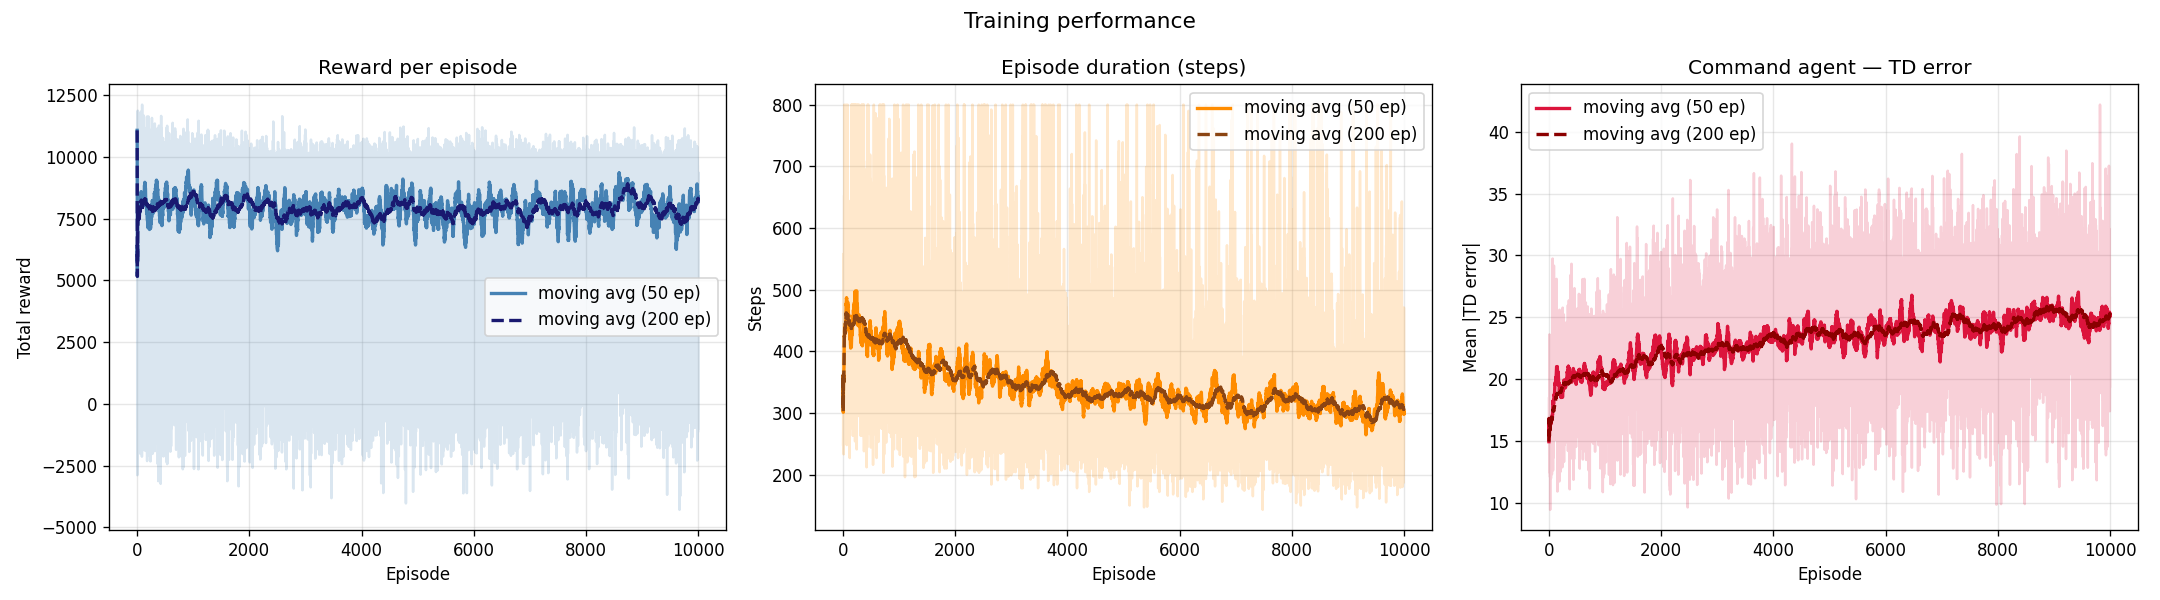
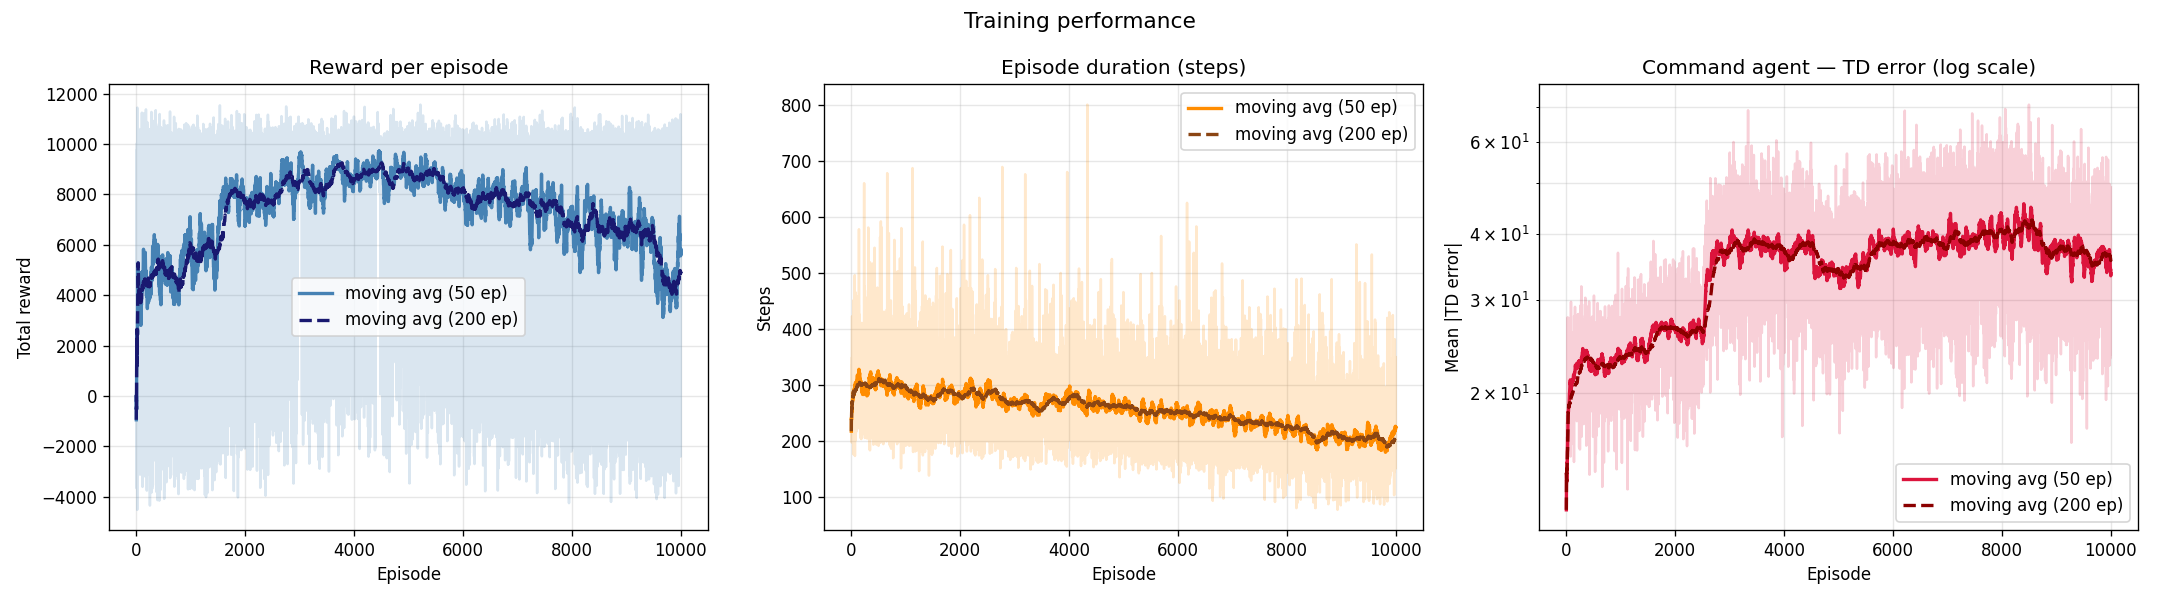
Readme update

diff --git a/training_and_eval.py b/training_and_eval.py
@@ -276,6 +276,6 @@ def train(episodes=5000, render_every=1000, resume=True, save_every=500):
 
 
 if __name__ == "__main__":
-    # resume=True  → continue from last checkpoint (default)
-    # resume=False → start from scratch, ignore existing qtables.npz
-    train(episodes=10000, render_every=500, resume=True, save_every=500)
+    # resume=True  | continue from last checkpoint (default)                |
+    # resume=False | start from scratch, ignore existing qtables.npz        |
+    train(episodes=10000, render_every=5000, resume=True, save_every=1000)

diff --git a/readme.md b/readme.md
@@ -1,8 +1,8 @@
-# IA-Normandy – Normandy Battle Simulation with RL
+# IA-Normandy – Normandy Battle Simulation with RL
 
 Artificial Intelligence course project. Multi-agent tactical simulation of the Battle of Normandy implemented using Gymnasium and tabular Q-Learning.
 
-Link: https://github.com/alejandror5803/IA-normandy-simulation-RL
+Link: [https://github.com/alejandror5803/IA-normandy-simulation-RL](https://github.com/alejandror5803/IA-normandy-simulation-RL)
 
 ---
 
@@ -30,6 +30,7 @@ Link: https://github.com/alejandror5803/IA-normandy-simulation-RL
 IA-Normandy is a tactical simulation of the Battle of Normandy (and later the Battle of Caen) in a 2D grid environment of 100×100 cells. The project models a historically accurate numerical imbalance: the blue team (Germans, Tigers) starts at a 1:3 disadvantage against the red team (Allies, Shermans), but compensates with greater armor and firepower per unit.
 
 The objectives of the blue team are:
+
 - Capture and hold points of interest A, B, and C (with B being the most strategically valuable).
 - Engage the enemy while taking advantage of terrain cover.
 
@@ -43,6 +44,7 @@ This is a multi-agent self-play setup with ~64 learning components (commanders +
 
 Because of that, we should not expect a perfect smooth single-agent convergence curve.  
 In this project, we use **practical convergence**:
+
 - moving averages stabilize in a range (not necessarily at one flat value),
 - episode length reaches a stable band,
 - learned policies become consistent in the policy plots.
@@ -56,6 +58,7 @@ So, oscillation by itself is not a bug in this architecture. The real check is w
 ## Multi-Agent Architecture
 
 The system is organized into two hierarchical levels:
+
 - **Commander Agent:** Coordinates the platoon's sub-agents. Selects which sub-agent takes control each step.
 - **Attack Agent:** Decides whether to attack the nearest enemy within its observation range. It is penalized if an enemy is present and it does not fire; it is rewarded for each successful hit.
 - **Capture Agent:** Moves the platoon toward the designated objective. It is rewarded for getting closer and penalized for moving away.
@@ -75,25 +78,29 @@ The Luftwaffe adds a German JU-87 Stuka that performs bombing runs on Allied pla
 
 The aircraft's lifecycle is modelled as a discrete Markov Chain with 6 states:
 
-| State | Code | Description |
-|-------|------|-------------|
-| AVAILABLE | AV | Waiting at base, ready for a mission |
-| INBOUND | IB | Flying toward the target |
-| STRIKING | ST | Executing the bomb run (1 step) |
-| RETURNING | RT | Flying back to base |
-| REARMING | RA | Reloading at base |
-| SHOT_DOWN | SD | Absorbing state — aircraft destroyed |
+
+| State     | Code | Description                          |
+| --------- | ---- | ------------------------------------ |
+| AVAILABLE | AV   | Waiting at base, ready for a mission |
+| INBOUND   | IB   | Flying toward the target             |
+| STRIKING  | ST   | Executing the bomb run (1 step)      |
+| RETURNING | RT   | Flying back to base                  |
+| REARMING  | RA   | Reloading at base                    |
+| SHOT_DOWN | SD   | Absorbing state — aircraft destroyed |
+
 
 The transition matrix `T` captures the probabilities between states. The stochastic element is `P_FLAK = 0.04`: a 4% chance per step of being intercepted by anti-aircraft fire while in the `INBOUND` state.
 
 Theoretical statistics computed at initialisation from the chain:
 
-| Metric | Value |
-|--------|-------|
-| Cycle length | 20 steps |
-| P(survive one mission) | 81.5% |
-| Availability | ~5% |
-| Expected missions before shootdown | ~5.4 |
+
+| Metric                             | Value    |
+| ---------------------------------- | -------- |
+| Cycle length                       | 20 steps |
+| P(survive one mission)             | 81.5%    |
+| Availability                       | ~5%      |
+| Expected missions before shootdown | ~5.4     |
+
 
 #### 2. Particle Swarm Optimization (Topic 4) — Target selection
 
@@ -112,6 +119,7 @@ The blast has a Manhattan radius of 5 cells with a linear falloff. Terrain cover
 #### Rendering
 
 The aircraft is rendered as an animated JU-87 sprite (`resources/ju87.png`) that:
+
 - Interpolates its position between base and target based on the current Markov Chain state and steps elapsed.
 - Rotates to face the flight direction.
 - Draws a semi-transparent path line to its target.
@@ -133,13 +141,16 @@ If `smolagents` is not installed or the API call fails, both fall back silently 
 
 **Tools provided to the LLM:**
 
-| Tool | Arguments | Purpose |
-|------|-----------|---------|
-| `get_battle_performance` | avg_reward, win_rate, avg_captures, blue_alive_avg | Recent performance report |
-| `get_commander_stats` | blue_epsilons_csv, blue_q_means_csv, red_epsilon | Per-commander Q-table and epsilon status |
-| `get_luftwaffe_report` | missions_done, lw_active | Luftwaffe mission count and aircraft status |
+
+| Tool                     | Arguments                                          | Purpose                                     |
+| ------------------------ | -------------------------------------------------- | ------------------------------------------- |
+| `get_battle_performance` | avg_reward, win_rate, avg_captures, blue_alive_avg | Recent performance report                   |
+| `get_commander_stats`    | blue_epsilons_csv, blue_q_means_csv, red_epsilon   | Per-commander Q-table and epsilon status    |
+| `get_luftwaffe_report`   | missions_done, lw_active                           | Luftwaffe mission count and aircraft status |
+
 
 **LLM output format (one line):**
+
 ```
 CAPTURE_MULT=1.5  KILL_MULT=0.8  DEFEND_MULT=1.0
 BLUE_EPS=0.15,0.20,0.15,0.25  RED_EPS=0.35
@@ -160,9 +171,11 @@ A multiplier of `2.0` on captures doubles the gradient signal for capture action
 **Option B — Per-commander epsilon:**
 After each FM call, each blue commander's epsilon is set individually based on the LLM's assessment of its Q-table status (confident / learning / confused).
 
+
 | Multiplier range | Epsilon range |
-|-----------------|---------------|
-| [0.5, 2.5] | [0.05, 0.70] |
+| ---------------- | ------------- |
+| [0.5, 2.5]       | [0.05, 0.70]  |
+
 
 ---
 
@@ -172,14 +185,17 @@ After each FM call, each blue commander's epsilon is set individually based on t
 
 **Tools provided to the LLM:**
 
-| Tool | Arguments | Purpose |
-|------|-----------|---------|
-| `get_allied_battle_performance` | red_win_rate, avg_red_alive, avg_blue_alive | Red team performance report |
-| `get_squad_stats` | squad_epsilons_csv, squad_q_means_csv | Per-squad exploration and Q-value status |
+
+| Tool                            | Arguments                                   | Purpose                                  |
+| ------------------------------- | ------------------------------------------- | ---------------------------------------- |
+| `get_allied_battle_performance` | red_win_rate, avg_red_alive, avg_blue_alive | Red team performance report              |
+| `get_squad_stats`               | squad_epsilons_csv, squad_q_means_csv       | Per-squad exploration and Q-value status |
+
 
 The 12 red commanders are grouped into **4 squads of 3** (squad 0 = cmds 0–2, squad 1 = cmds 3–5, etc.) to match the 4-unit structure of the blue team.
 
 **LLM output format:**
+
 ```
 RED_EPS=0.15,0.20,0.15,0.25  RATIONALE=Squad 2 is getting wiped out — push exploration.
 ```
@@ -188,6 +204,7 @@ RED_EPS=0.15,0.20,0.15,0.25  RATIONALE=Squad 2 is getting wiped out — push exp
 Red agents receive individual epsilon control per squad. Reward multipliers are not applied to red — giving red the same multipliers as blue when blue needs to capture would make red also learn to capture harder, which is counterproductive for the intended training dynamics.
 
 #### API call budget
+
 
 | Training length | Calls (German FM) | Calls (Allied FM) | Total |
 |-----------------|-------------------|-------------------|-------|
@@ -236,32 +253,25 @@ IA-normandy-simulation-RL/
 │   ├── mapaNormandia.png
 │   └── Estructura de la practica(inicial).png
 │
-├── readme_resources/               # Static images used inside README (first task)
-│   ├── terminal.png
-│   ├── render_ex.png
+├── readme_resources/               # Static images used inside README
+│   ├── terminal_output.png
+│   ├── render.png
+│   ├── LLM_interaction.png
 │   ├── training_curves.png
 │   ├── epsilon_decay.png
+│   ├── win_rate_and_captures.png
 │   ├── command_agent_policy.png
 │   ├── attack_defense_policy.png
 │   └── capture_agent_policy.png
-|
-|
-├── readme_resources2/               # Static images used inside README (final task)
-│   ├── terminal_output.png
-│   ├── render.png
-│   ├── training_performance.png
-│   ├── epsilon_decay.png
-│   ├── command_agent.png
-│   ├── attack_defense_agent.png
-│   └── capture_agent.png
-|  
 │
-└── results/                        # Generated at the end of training runs
+└── results/                        # Generated at the end of training runs (gitignored)
     ├── training_curves.png
     ├── epsilon_decay.png
+    ├── win_rate_and_captures.png
     ├── command_agent_policy.png
     ├── attack_defense_policy.png
-    └── capture_agent_policy.png
+    ├── capture_agent_policy.png
+    └── qtables.npz
 ```
 
 ---
@@ -368,6 +378,7 @@ Each platoon receives a vector of 16 integer values in the range [0–9]:
 Wrappers allow us to add functionality to the base environment without modifying its code. They are stacked in layers on top of the environment, so that each one transforms observations, actions, or metrics before they reach the agent or the training loop.
 
 We have used the following:
+
 - **FogOfWarWrapper:** Hides enemies beyond 12 cells (ENEMY_NEARBY_RANGE). Simulates the historical fog of war.
 - **ActionMaskWrapper:** Prevents invalid actions (attacking without ammo, resupplying outside supply points). Automatically redirects to META_CAPTURE.
 - **TimeLimit:** Limits each episode to a maximum number of steps (default: 800).
@@ -379,10 +390,12 @@ We have used the following:
 ## Installation
 
 **Requirements:**
+
 - Python 3.10 or higher
 - pip
 
 **Steps:**
+
 1. Clone repository
 2. (Recommended) Create a virtual environment
 3. Install dependencies
@@ -394,6 +407,7 @@ We have used the following:
 If `smolagents` is not installed the simulation runs normally using the rule-based Field Marshal fallback — no API key required.
 
 **API keys (optional):** Set the following environment variables before running to enable the LLM Field Marshal:
+
 ```bash
 # Windows PowerShell
 $env:GROQ_API_KEY = "your_groq_key_here"
@@ -420,23 +434,23 @@ When a platoon is hit, an animated explosion visual effect is displayed over its
 
 **Terminal output during training:**
 
-![Terminal output](readme_resources2/terminal_output.png)
-
+![Terminal output](readme_resources/terminal_output.png)
 
 **Render image:**
 
-![Render example](readme_resources2/render.png)
+![Render example](readme_resources/render.png)
 
-**LLM interaction**
+**LLM interaction:**
 
-![LLM interaction](readme_resources2/LLM_interaction.png)
+![LLM interaction](readme_resources/LLM_interaction.png)
 
+---
 
 **Training Performance:**
 
-Displays the total reward per episode (light blue) along with its 50-episode moving average (dark blue), the episode length in steps, and the commander agent's TD error. It can be observed that episodes shorten rapidly during the first 250 episodes, indicating that the agents learn to end the game efficiently.
+The reward starts negative during early exploration, rises to a peak of around 8,500–9,000 by episode 4,000–5,000, and then gradually falls to around 6,000–7,000 in the second half of training. This arc shape is not a failure; it reflects the coevolutionary arms race: blue learned a dominant strategy, the Field Marshal pushed red to explore harder, and red found a counter. Episode duration decreases consistently from ~300 to ~200 steps, meaning both teams resolve encounters faster as they learn. The TD error shows clear stepped jumps at episodes ~2,500 and ~5,500, which coincide exactly with Field Marshal interventions that raised red's epsilon and forced the Q-tables to re-evaluate previously stable states.
 
-![Training performance](readme_resources2/training_performance.png)
+![Training performance](readme_resources/training_curves.png)
 
 **How we interpret convergence in this project (important):**
 
@@ -445,57 +459,63 @@ We check practical convergence, not perfect flat curves:
 - stable episode length band,
 - policy maps that stop changing drastically.
 
-In our setup, some oscillation is normal because both teams keep learning and the Field Marshal periodically adjusts exploration and priorities.
-
-**Epsilon Decay – Exploration vs Exploitation:**
-
-Evolution of epsilon for each type of agent throughout training. In this project, epsilon is not only decayed; it is also adjusted by the Field Marshal at each strategy update. So a saw-tooth pattern is normal: decay phase -> FM adjustment -> decay phase.
-
-![Epsilon decay](readme_resources2/epsilon_decay.png)
-
-**Win rate and captures per episode:**
-
-Training results showing the evolution of team win rates and objective captures across 10,000 reinforcement learning episodes. The graphs highlight how agents progressively improve battlefield performance, strategy adaptation, and mission control over time.
-
-![Win rate and captures](readme_resources2/win_and_captures.png)
-
-**Attack and Defense Agents – Q-values and Policy:**
-
-The attack agent correctly learns to fire when enemies are within range.
-The defense agent learns to seek cover when enemies are nearby and to remain stationary when already in high cover (Wall).
-
-![Attack and defense agents](readme_resources2/attack_defense_agent.png)
-
-**Capture Agent – Policy and State Values:**
-
-At short distances, state values are positive, while at longer distances negative values increase, reflecting the penalty for moving away from the objective.
-
-![Capture agent policy](readme_resources2/capture_agent.png)
-
-**Commander Agent – Policy and State Values:**
-
-With normal ammunition and enemies within range, the agent learns to attack when HP is high and to resupply when it is low.
-With low ammunition, it always prioritizes capturing regardless of the threat.
-
-![Command agent policy](readme_resources2/command_agent.png)
-
-The plots are automatically generated at the end of training using `metrics_and_plotter.py`, which logs per episode the total reward, duration, TD error, captures, and the epsilon of each type of agent, and saves them in the folder configured in `env_config.py` (`PLOTS_SAVE_PATH`).
+In our setup, some oscillation is expected because both teams keep learning simultaneously and the Field Marshal periodically adjusts exploration rates and reward priorities.
 
 ---
 
-## Future Work (ideas)
+**Epsilon Decay – Exploration vs Exploitation:**
 
-- **Supply truck:** Implement a supply truck controlled directly by the Field Marshal (LLM), autonomously managing dynamic resupply of platoons based on the current state of the battlefield.
-- **Map expansion:** Further scale the grid beyond 100×100 to accommodate new air and ground units, with procedural generation adapted to the new dimensions.
-- **Render improvements:** Enhance the Pygame interface with HP indicators over sprites, a real-time statistics panel, persistent smoke effects and per-agent status visualization.
-- **Neural network policy:** Replace tabular Q-Learning with a DQN or PPO policy for the commander agents, using the existing `ObsNormWrapper` for input normalisation.
+Here you can see what the Field Marshal actually does. The red team's epsilon was raised multiple times throughout training; at episodes ~1,500, ~2,500, ~3,500, ~5,000, and ~5,500; peaking as high as 0.5 on one intervention. Each of these resets corresponds to the Allied Field Marshal detecting that red was stagnating and forcing it to try new tactics. Blue's epsilon was also reset twice, visible as the two small steps in the blue command curve. The capture agent (orange) is the slowest to converge, reaching the minimum only around episode 9,000, which makes sense given that navigation across a 100×100 map involves far more state space than attack or defense decisions.
+
+![Epsilon decay](readme_resources/epsilon_decay.png)
+
+---
+
+**Win Rate and Captures per Episode:**
+
+Blue peaks at 80–90% win rate around episodes 2,000–4,000. From that point it falls progressively to ~50–60% by episode 10,000 as red adapts. This is the clearest coevolutionary dynamic in the project: blue finds a dominant strategy, the Allied Field Marshal raises red's exploration until red finds a counter, and the win rate converges toward a competitive equilibrium. The captures graph shows a similar story; red initially controls all three objectives in the first episodes while blue is still exploring, then blue catches up to ~1.5 objectives per episode, and both teams stabilize around 1.5 by the end.
+
+![Win rate and captures](readme_resources/win_rate_and_captures.png)
+
+---
+
+**Attack and Defense Agents – Q-values and Policy:**
+
+The attack agent has learned the correct behaviour: when no enemy is in range, Don't shoot is clearly preferred (Q = 0.8 vs 0.3 for Shoot). When an enemy is in range, Shoot wins by a large margin (Q = 4.6 vs 3.4). The separation between the two states is the highest recorded, showing that the agent has built a well-differentiated Q-table.
+
+The defense agent has also learned a reasonable policy. When there is no enemy nearby and no cover, it seeks cover opportunistically (Take cover). When it already has Bush or Wall protection, it stays put to avoid wasting fuel. When an enemy is nearby and it is already behind a Wall, it stays, correctly judging that moving would expose it. All state values are negative, which is expected: defense never earns direct positive rewards, it only reduces damage taken.
+
+![Attack and defense agents](readme_resources/attack_defense_policy.png)
+
+---
+
+**Capture Agent – Policy and State Values:**
+
+At close and medium distances the policy is coherent: the agent moves Up when the objective is above, Down when it is below, Right when it is to the right, and Left when it is to the left. State values are positive in these ranges (1–7), indicating that the agent has learned that moving toward the objective is genuinely worthwhile. At far distances (>7 tiles) the policy becomes noisier and some values turn negative, which is expected, the agent visits those long-range states less frequently during training and has less opportunity to refine them.
+
+![Capture agent policy](readme_resources/capture_agent_policy.png)
+
+---
+
+**Commander Agent – Policy and State Values:**
+
+The command agent shows its richest Q-table, with a maximum state value of 1,082 (enemy in range, high HP, normal ammo), roughly double the values seen in earlier checkpoints, indicating much deeper learning.
+
+With normal ammo, the policy is tactically coherent: Attack when HP is mid or high and an enemy is in range, Resupply when HP is low and an enemy is in range (prioritising survival over fighting), and Capture or Resupply when there is no threat. With low ammo, the policy shifts cleanly toward Attack when an enemy is present and Resupply otherwise, the agent learned that conserving ammo matters and that running dry in a firefight is dangerous. The state value gradient is clear in both heatmaps: values increase from bottom-left (low HP, no threat) to top-right (high HP, enemy in range), which is exactly the expected pattern for an offensive unit.
+
+![Command agent policy](readme_resources/command_agent_policy.png)
+
+---
+
+The plots are automatically generated at the end of training using `metrics_and_plotter.py`, which logs per episode the total reward, duration, TD error, captures, and the epsilon of each agent type, and saves them in the folder configured in `env_config.py` (`PLOTS_SAVE_PATH`).
 
 ---
 
 ## Authors
 
+
 | Name                 | GitHub          |
-|----------------------|-----------------|
+| -------------------- | --------------- |
 | Alejandro Rodriguez  | @alejandror5803 |
 | Marco Antonio Benali | @marcobenali    |
 | Gaspar Muñoz         | @GasparMJ       |
